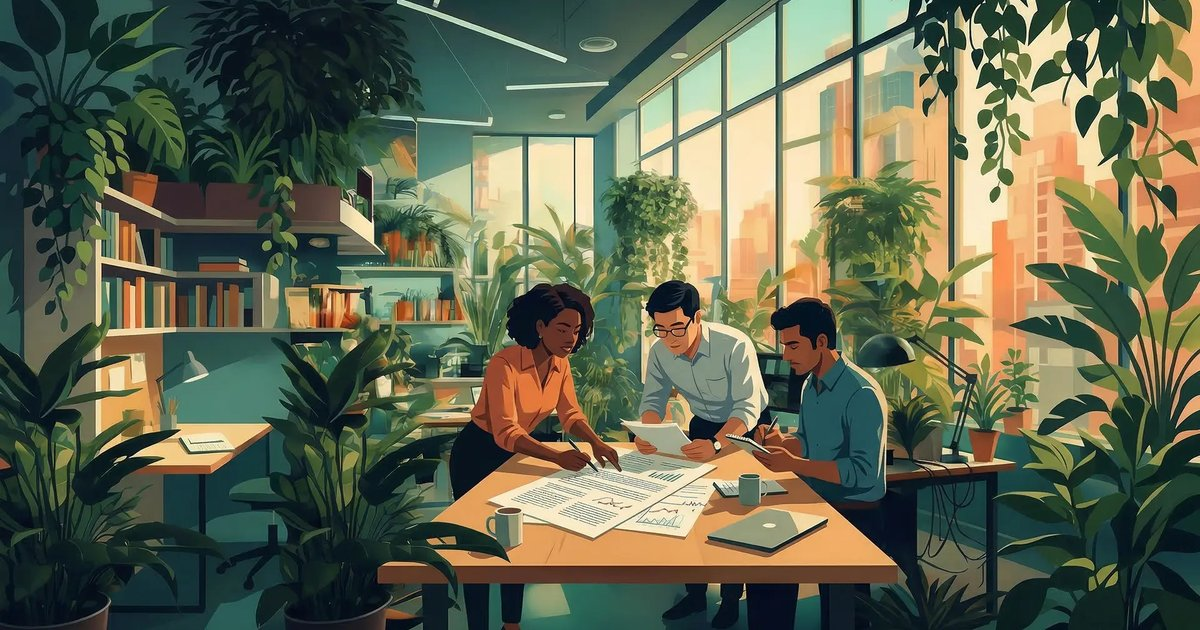
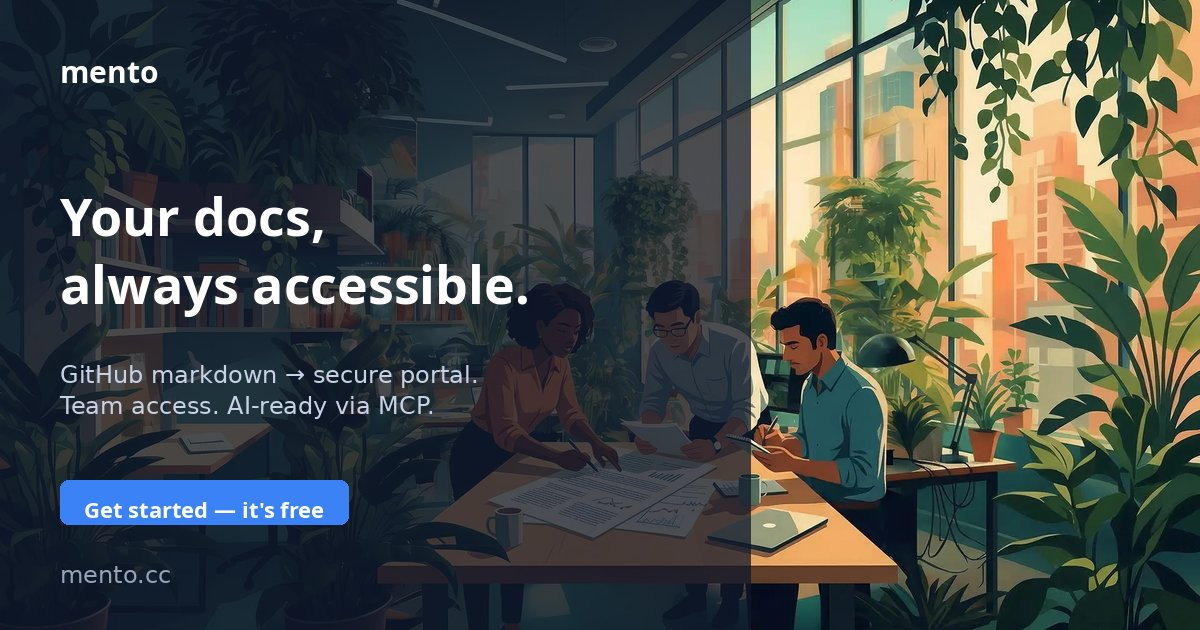
fix: improve OG image with headline/CTA and lengthen title to 58 chars
- Add text overlay to OG image: headline, subtitle, CTA button, URL
- Update title from 36 to 58 chars for optimal SEO length
- Add "GitHub" and "AI-ready" keywords to title

diff --git a/frontend/index.html b/frontend/index.html
@@ -8,14 +8,14 @@
     <link rel="apple-touch-icon" href="/apple-touch-icon.png" />
 
     <!-- SEO -->
-    <title>Mento — Your docs, always accessible</title>
+    <title>Mento — Your GitHub docs, always accessible and AI-ready</title>
     <meta name="description" content="Mento turns your GitHub markdown into a clean, secure documentation portal. Invite your team, control access, and let AI read your docs via MCP." />
     <link rel="canonical" href="https://mento.cc/" />
 
     <!-- Open Graph -->
     <meta property="og:type" content="website" />
     <meta property="og:url" content="https://mento.cc/" />
-    <meta property="og:title" content="Mento — Your docs, always accessible" />
+    <meta property="og:title" content="Mento — Your GitHub docs, always accessible and AI-ready" />
     <meta property="og:description" content="Turn your GitHub markdown into a clean, secure portal. Invite your team. Control access. Let AI read your docs too." />
     <meta property="og:image" content="https://mento.cc/og-image.jpg" />
     <meta property="og:image:width" content="1200" />
@@ -24,7 +24,7 @@
 
     <!-- Twitter Card -->
     <meta name="twitter:card" content="summary_large_image" />
-    <meta name="twitter:title" content="Mento — Your docs, always accessible" />
+    <meta name="twitter:title" content="Mento — Your GitHub docs, always accessible and AI-ready" />
     <meta name="twitter:description" content="Turn your GitHub markdown into a clean, secure portal. Invite your team. Control access. Let AI read your docs too." />
     <meta name="twitter:image" content="https://mento.cc/og-image.jpg" />
 
